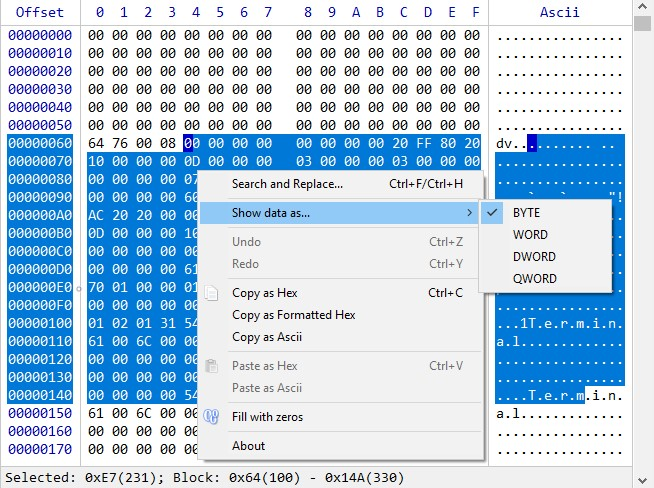
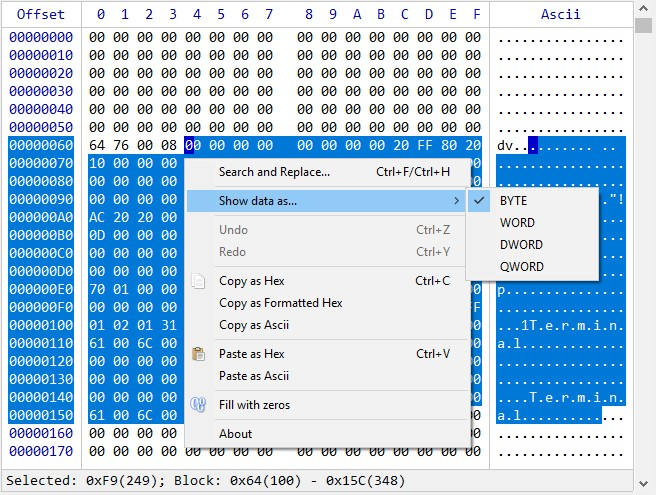
[Changes] HEXMODIFYSTRUCT::fRepeat addded.

diff --git a/HexCtrl/src/CHexCtrl.cpp b/HexCtrl/src/CHexCtrl.cpp
@@ -596,16 +596,8 @@ BOOL CHexCtrl::OnCommand(WPARAM wParam, LPARAM lParam)
 		ClipboardPaste(INTERNAL::EClipboard::PASTE_ASCII);
 		break;
 	case (UINT_PTR)INTERNAL::EMenu::IDM_EDIT_FILL_ZEROS:
-	{
-		HEXMODIFYSTRUCT hmd;
-		hmd.ullSize = m_ullSelectionSize;
-		hmd.ullIndex = m_ullSelectionStart;
-		hmd.ullDataSize = 1;
-		unsigned char chZero { 0 };
-		hmd.pData = &chZero;
-		ModifyData(hmd);
-	}
-	break;
+		FillWithZeros();
+		break;
 	case (UINT_PTR)INTERNAL::EMenu::IDM_MAIN_ABOUT:
 	{
 		CHexDlgAbout m_dlgAbout;
@@ -1170,7 +1162,7 @@ void CHexCtrl::ModifyData(const HEXMODIFYSTRUCT & hms, bool fRedraw)
 			m_deqRedo.clear(); //No Redo unless we make Undo.
 			SnapshotUndo(hms.ullIndex, hms.ullSize);
 
-			ULONGLONG ullChunks = hms.ullSize > hms.ullDataSize ? hms.ullSize / hms.ullDataSize : 1;
+			ULONGLONG ullChunks = hms.ullSize > hms.ullDataSize ? (hms.fRepeat ? hms.ullSize / hms.ullDataSize : 1) : 1;
 			for (ULONGLONG iterChunk = 0; iterChunk < ullChunks; iterChunk++)
 				for (ULONGLONG iterData = 0; iterData < hms.ullDataSize; iterData++)
 					m_pData[hms.ullIndex + hms.ullDataSize * iterChunk + iterData] = hms.pData[iterData];
@@ -1968,6 +1960,7 @@ void CHexCtrl::SearchCallback(INTERNAL::SEARCHSTRUCT & rSearch)
 	ULONGLONG ullSizeBytes;
 	ULONGLONG ullUntil;
 	ULONGLONG ullSizeBytesReplaced;
+	DWORD dwSizeNext; //Bytes to add to the next search beginning.
 	std::string strSearch;
 	std::string strReplace;
 	static const wchar_t* const wstrReplaceWarning { L"Replacing string is longer than Find string.\r\n"
@@ -2011,12 +2004,13 @@ void CHexCtrl::SearchCallback(INTERNAL::SEARCHSTRUCT & rSearch)
 			return;
 
 		ullSizeBytesReplaced = strReplace.size();
+		dwSizeNext = strReplace.size() / 2;
 	}
 	break;
 	case INTERNAL::ENSEARCHTYPE::SEARCH_ASCII:
 	{
 		ullSizeBytes = strSearch.size();
-		ullSizeBytesReplaced = strReplace.size();
+		ullSizeBytesReplaced = dwSizeNext = strReplace.size();
 		if (ullSizeBytes > m_ullDataSize)
 			return;
 	}
@@ -2024,7 +2018,7 @@ void CHexCtrl::SearchCallback(INTERNAL::SEARCHSTRUCT & rSearch)
 	case INTERNAL::ENSEARCHTYPE::SEARCH_UTF16:
 	{
 		ullSizeBytes = rSearch.wstrSearch.size() * sizeof(wchar_t);
-		ullSizeBytesReplaced = rSearch.wstrReplace.size() * sizeof(wchar_t);
+		ullSizeBytesReplaced = dwSizeNext = rSearch.wstrReplace.size() * sizeof(wchar_t);
 		if (ullSizeBytes > m_ullDataSize)
 			return;
 	}
@@ -2044,7 +2038,7 @@ void CHexCtrl::SearchCallback(INTERNAL::SEARCHSTRUCT & rSearch)
 				if (memcmp(m_pData + i, strSearch.data(), strSearch.size()) == 0)
 				{
 					SearchReplace(i, (PBYTE)strReplace.data(), strSearch.size(), strReplace.size(), false);
-					i += strReplace.size() - 1;
+					i += dwSizeNext - 1;
 					rSearch.fFound = true;
 					rSearch.dwReplaced++;
 				}
@@ -2058,7 +2052,7 @@ void CHexCtrl::SearchCallback(INTERNAL::SEARCHSTRUCT & rSearch)
 				{
 					SearchReplace(i, (PBYTE)rSearch.wstrSearch.data(), rSearch.wstrSearch.size() * 2,
 						rSearch.wstrReplace.size() * 2, false);
-					i += rSearch.wstrReplace.size() * 2 - 1; //To compensate i++ in loop.
+					i += dwSizeNext - 1; //To compensate i++ in loop.
 					rSearch.fFound = true;
 					rSearch.dwReplaced++;
 				}
@@ -2077,7 +2071,7 @@ void CHexCtrl::SearchCallback(INTERNAL::SEARCHSTRUCT & rSearch)
 				if (rSearch.fReplace && rSearch.fSecondMatch)
 				{
 					SearchReplace(rSearch.ullIndex, (PBYTE)strReplace.data(), strSearch.size(), strReplace.size());
-					rSearch.ullIndex += strReplace.size();
+					rSearch.ullIndex += dwSizeNext;
 					rSearch.dwReplaced++;
 				}
 
@@ -2168,7 +2162,7 @@ void CHexCtrl::SearchCallback(INTERNAL::SEARCHSTRUCT & rSearch)
 				{
 					SearchReplace(rSearch.ullIndex, (PBYTE)rSearch.wstrReplace.data(), rSearch.wstrSearch.size() * 2,
 						rSearch.wstrReplace.size() * 2);
-					rSearch.ullIndex += rSearch.wstrReplace.size() * 2;
+					rSearch.ullIndex += dwSizeNext;
 					rSearch.dwReplaced++;
 				}
 
@@ -2366,6 +2360,18 @@ void CHexCtrl::SelectAll()
 	m_ullSelectionClick = m_ullSelectionStart = 0;
 	m_ullSelectionEnd = m_ullSelectionSize = m_ullDataSize;
 	UpdateInfoText();
+}
+
+void CHexCtrl::FillWithZeros()
+{
+	HEXMODIFYSTRUCT hms;
+	hms.ullSize = m_ullSelectionSize;
+	hms.ullIndex = m_ullSelectionStart;
+	hms.ullDataSize = 1;
+	hms.fRepeat = true;
+	unsigned char chZero { 0 };
+	hms.pData = &chZero;
+	ModifyData(hms);
 }
 
 void CHexCtrl::FillCapacity()

diff --git a/HexCtrl/src/CHexCtrl.h b/HexCtrl/src/CHexCtrl.h
@@ -148,6 +148,7 @@ namespace HEXCTRL {
 		void SearchReplace(ULONGLONG ullIndex, PBYTE pData, size_t nSizeData, size_t nSizeReplace, bool fRedraw = true);
 		void SetSelection(ULONGLONG ullClick, ULONGLONG ullStart, ULONGLONG ullSize, bool fHighlight = false, bool fMouse = false);
 		void SelectAll();
+		void FillWithZeros();                                     //Fill selection with zeros.
 		void FillCapacity();                                      //Fill m_wstrCapacity according to current m_dwCapacity.
 	private:
 		bool m_fCreated { false };          //Is control created or not yet.

diff --git a/HexCtrl/HexCtrl.h b/HexCtrl/HexCtrl.h
@@ -23,6 +23,7 @@ namespace HEXCTRL
 		PBYTE     pData { };          //Pointer to a data to be set.
 		bool      fWhole { true };    //Is a whole byte or just a part of it to be modified.
 		bool      fHighPart { true }; //Shows whether high or low part of the byte should be modified (if the fWhole flag is false).
+		bool      fRepeat { false };  //If ullDataSize < ullSize should data be replaced just one time or ullSize/ullDataSize times.
 	};
 
 	/********************************************************************************************

diff --git a/README.md b/README.md
@@ -304,12 +304,13 @@ struct HEXMODIFYSTRUCT
     PBYTE     pData { };          //Pointer to a data to be set.
     bool      fWhole { true };    //Is a whole byte or just a part of it to be modified.
     bool      fHighPart { true }; //Shows whether high or low part of the byte should be modified (if the fWhole flag is false).
+    bool      fRepeat { false };  //If ullDataSize < ullSize should data be replaced just one time or ullSize/ullDataSize times.
 };
 ```
-When `ullDataSize` is equal `ullSize`, bytes from `pData` just replace corresponding internal bytes as is.  
-If `ullDataSize` is less then `ullSize` then block by block replacement takes place.
+When `ullDataSize` is equal `ullSize`, bytes from `pData` just replace corresponding bytes as is.  
+If `ullDataSize` is less then `ullSize` only `ullDataSize` bytes are replaced if `fRepeat` flag is false. If `fRepeat` is true then block by block replacement takes place `ullSize / ullDataSize` times.
 
-For example, if `ullSize` = 9, `ullDataSize` = 3, bytes in memory at `ullIndex` position are `123456789` and bytes pointed to by `pData` are `345`, then, after modification, bytes at `ullIndex` will be `345345345`.
+For example, if `ullSize` = 9, `ullDataSize` = 3 and `fRepeat` is true, bytes in memory at `ullIndex` position are `123456789` and bytes pointed to by `pData` are `345`, then, after modification, bytes at `ullIndex` will be `345345345`.
 ### [](#)HEXNOTIFYSTRUCT
 This struct is used in notifications routine, when data is set with the [`DATA_MSG`](#ehexdatamode) flag.
 ```cpp
